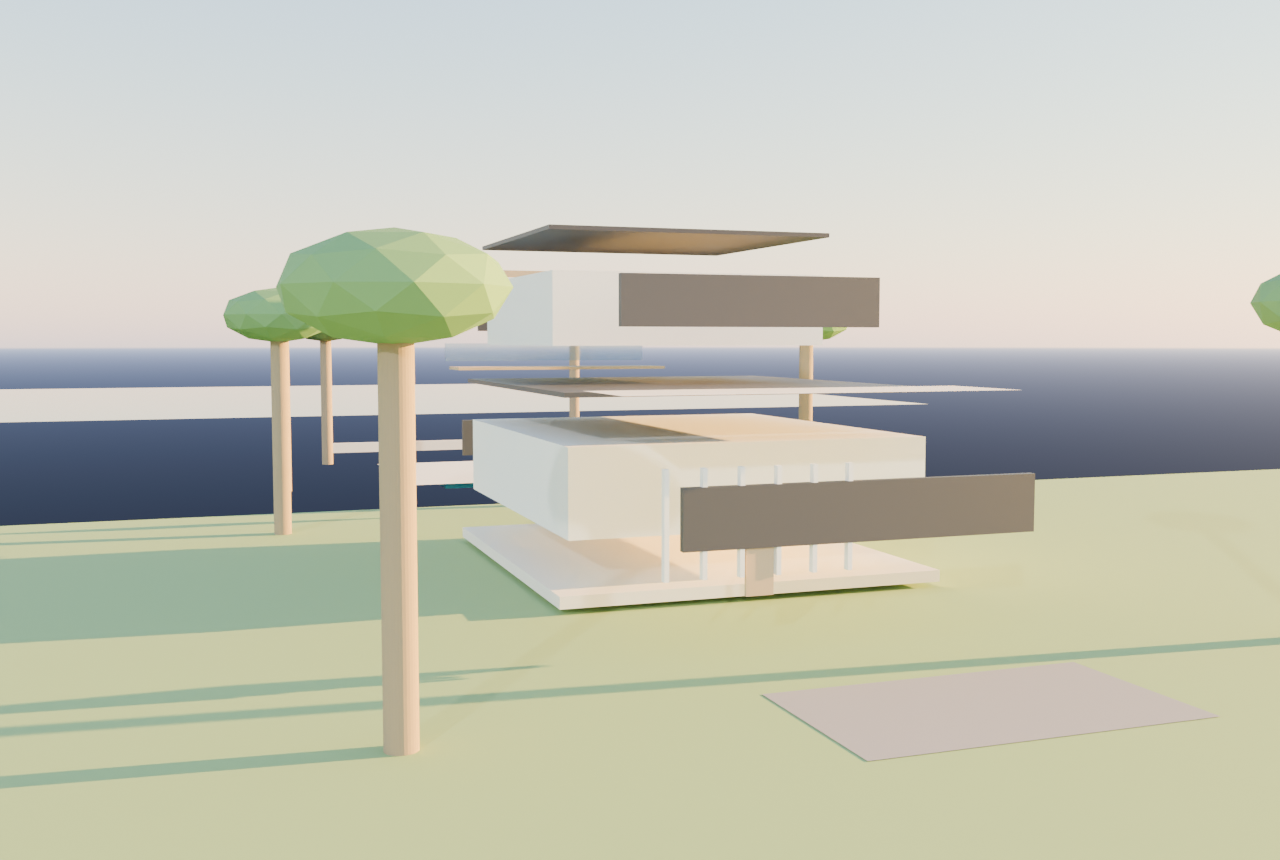
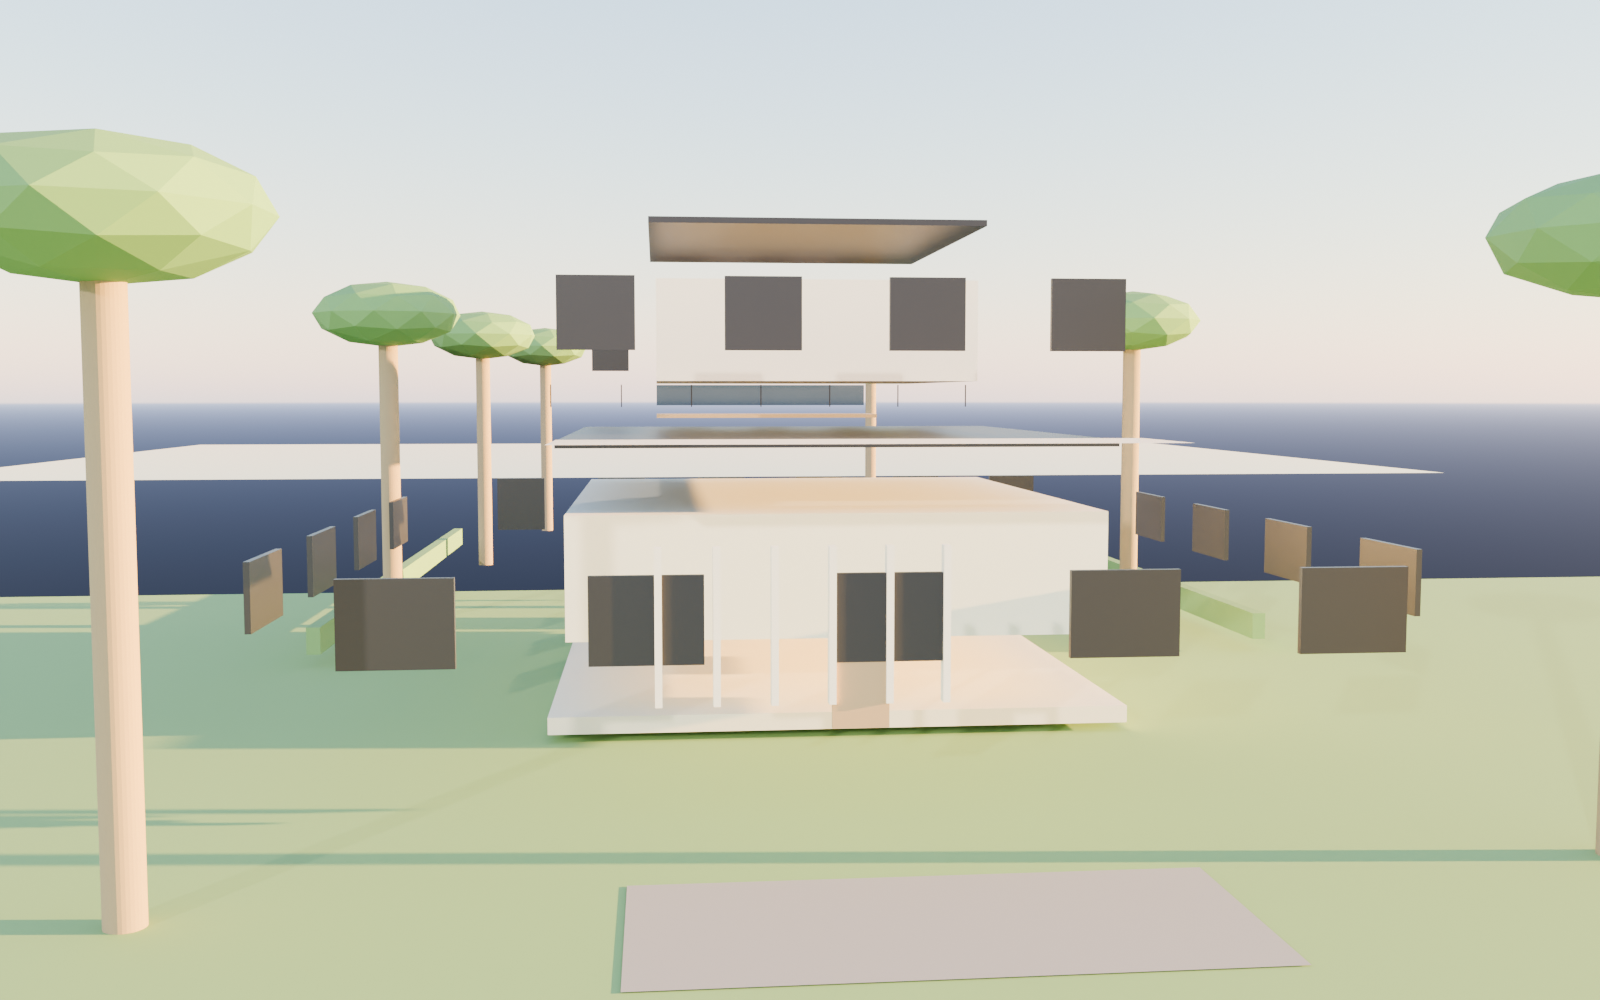
Refine 3D: recessed windows, glass-rail terrace, PBR materials, landscaping
Realism pass on the Blender model - black-framed recessed windows on
all facades, entry colonnade, glass-railed bay terrace, wood accents,
stucco/glass/water/travertine materials, hedges + palms, golden-hour
physical sky, 110-sample render at 1600x1000.

Changed region(s): [[0.0, 0.1209, 1.0, 0.9977], [0.9062, 0.1814, 1.0, 0.393], [0.9062, 0.7256, 1.0, 0.7558]]

diff --git a/tools/blender_second_floor.py b/tools/blender_second_floor.py
@@ -1,189 +1,165 @@
 #!/usr/bin/env python3
 """
-Blender (bpy) model of 8220 Hawthorne Ave with a second floor built ON the
-existing flat roof. Conceptual massing with real materials + physical sky.
-
-Run:  python3 tools/blender_second_floor.py
-Outputs photoreal-ish renders into renders/blender/.
-
-Geometry from the survey + listing photos:
-  - Lot 60' (x) x 150' (y). Front (y=0)=Hawthorne Ave, rear (y=150)=open bay/west.
-  - Existing: low white one-story, FLAT ROOF, ~41'x64' footprint, pool+deck on bay.
-  - Proposed: stepped-back 2nd-floor volume on the flat roof + bay-facing terrace.
-NOT to scale for permit; massing/visualization only.
+8220 Hawthorne Ave - second floor on the flat roof.
+Refined Blender (bpy) model: recessed black-framed windows, glass-rail bay
+terrace, PBR materials (stucco/glass/wood/travertine/water), landscaping, and
+golden-hour physical-sky lighting. Conceptual visualization, real-scale.
+Run: python3 tools/blender_second_floor.py
 """
 import bpy, math, os
 
-# ---------------- scene reset ----------------
 bpy.ops.wm.read_factory_settings(use_empty=True)
 scene = bpy.context.scene
 
-# ---------------- params (feet) ----------------
+# ---- dims (feet), real scale from LiDAR ----
 LOT_W, LOT_D = 60.0, 150.0
-PLINTH = 1.5                       # modest finished-floor lift above grade
-S1H, S2H = 11.0, 10.0
-# footprint scaled to the LiDAR scan: ~48' wide x ~54' deep, on the 60' lot
-HX0, HX1 = 6.0, 54.0               # house footprint x (width ~48')
-HY0, HY1 = 20.0, 74.0             # house footprint y (front->bay, depth ~54')
-ROOF = 0.6
-# second floor: stepped back from street, sits on the flat roof
-S2X0, S2X1 = 10.0, 50.0
-S2Y0, S2Y1 = 34.0, HY1            # opened toward the bay (rear)
+PLINTH, S1H, S2H, ROOF = 1.5, 11.0, 10.0, 0.6
+HX0, HX1, HY0, HY1 = 6.0, 54.0, 20.0, 74.0       # wide low base ~48x54
+S2X0, S2X1, S2Y0, S2Y1 = 14.0, 46.0, 32.0, 74.0  # central upper, stepped back
+ROOF_Z = PLINTH + S1H + ROOF
 
-def mat(name, color, rough=0.7, metal=0.0, transmission=0.0, emit=0.0):
+def mat(name, color, rough=0.7, metal=0.0, trans=0.0, bump=0.0):
     m = bpy.data.materials.new(name); m.use_nodes = True
-    b = m.node_tree.nodes.get("Principled BSDF")
+    nt = m.node_tree; b = nt.nodes.get("Principled BSDF")
     b.inputs["Base Color"].default_value = (*color, 1)
     b.inputs["Roughness"].default_value = rough
     b.inputs["Metallic"].default_value = metal
-    if "Transmission Weight" in b.inputs:
-        b.inputs["Transmission Weight"].default_value = transmission
-    if emit and "Emission Strength" in b.inputs:
-        b.inputs["Emission Color"].default_value = (*color, 1)
-        b.inputs["Emission Strength"].default_value = emit
+    if "Transmission Weight" in b.inputs: b.inputs["Transmission Weight"].default_value = trans
+    if bump:
+        n = nt.nodes.new("ShaderNodeTexNoise"); n.inputs["Scale"].default_value = 60
+        bp = nt.nodes.new("ShaderNodeBump"); bp.inputs["Strength"].default_value = bump
+        nt.links.new(n.outputs["Fac"], bp.inputs["Height"])
+        nt.links.new(bp.outputs["Normal"], b.inputs["Normal"])
     return m
 
-STUCCO = mat("stucco", (0.93, 0.92, 0.89), rough=0.85)
-TRIM   = mat("trim",   (0.06, 0.06, 0.07), rough=0.5)
-GLASS  = mat("glass",  (0.05, 0.09, 0.12), rough=0.05, transmission=0.85)
-WOOD   = mat("wood",   (0.55, 0.40, 0.24), rough=0.6)
-TRAV   = mat("trav",   (0.85, 0.80, 0.72), rough=0.7)
-WATER  = mat("water",  (0.02, 0.22, 0.30), rough=0.04, metal=0.0)
-POOL   = mat("pool",   (0.05, 0.45, 0.62), rough=0.03)
-GRASS  = mat("grass",  (0.30, 0.45, 0.18), rough=0.95)
-ROADM  = mat("road",   (0.30, 0.30, 0.32), rough=0.9)
-RAILG  = mat("railglass", (0.6, 0.75, 0.85), rough=0.05, transmission=0.9)
+STUCCO=mat("stucco",(0.92,0.91,0.88),0.8,bump=0.05)
+TRIM  =mat("trim",(0.05,0.05,0.06),0.4,metal=0.7)
+GLASS =mat("glass",(0.06,0.11,0.14),0.05,trans=0.9)
+WOOD  =mat("wood",(0.5,0.34,0.19),0.45)
+TRAV  =mat("trav",(0.84,0.79,0.71),0.6,bump=0.03)
+WATER =mat("water",(0.02,0.20,0.28),0.02)
+POOL  =mat("pool",(0.05,0.42,0.58),0.02)
+GRASS =mat("grass",(0.22,0.40,0.14),0.95,bump=0.04)
+HEDGE =mat("hedge",(0.16,0.33,0.12),0.9,bump=0.1)
+ROAD  =mat("road",(0.30,0.30,0.32),0.85)
+LEAF  =mat("leaf",(0.15,0.34,0.11),0.8)
+TRUNK =mat("trunk",(0.34,0.26,0.16),0.9)
 
-def box(x0, x1, y0, y1, z0, z1, m, name="box"):
+def box(x0,x1,y0,y1,z0,z1,m,name="b"):
     bpy.ops.mesh.primitive_cube_add(size=1)
-    o = bpy.context.active_object; o.name = name
-    o.scale = ((x1-x0)/2, (y1-y0)/2, (z1-z0)/2)
-    o.location = ((x0+x1)/2, (y0+y1)/2, (z0+z1)/2)
-    o.data.materials.append(m)
-    return o
+    o=bpy.context.active_object; o.name=name
+    o.scale=((x1-x0)/2,(y1-y0)/2,(z1-z0)/2); o.location=((x0+x1)/2,(y0+y1)/2,(z0+z1)/2)
+    o.data.materials.append(m); return o
 
-def plane(x0, x1, y0, y1, z, m, name="plane"):
+def plane(x0,x1,y0,y1,z,m,name="p"):
     bpy.ops.mesh.primitive_plane_add(size=1)
-    o = bpy.context.active_object; o.name = name
-    o.scale = ((x1-x0)/2, (y1-y0)/2, 1)
-    o.location = ((x0+x1)/2, (y0+y1)/2, z)
-    o.data.materials.append(m)
-    return o
+    o=bpy.context.active_object; o.name=name
+    o.scale=((x1-x0)/2,(y1-y0)/2,1); o.location=((x0+x1)/2,(y0+y1)/2,z)
+    o.data.materials.append(m); return o
 
-# ---------------- ground / context ----------------
-plane(-200, 260, -120, 150, 0.0, GRASS, "grass")
-plane(-20, LOT_W+20, -60, 0, 0.02, ROADM, "street")
-plane(-260, 320, 150, 520, -0.6, WATER, "bay")
-box(0, LOT_W, 149, 150.6, -1.2, 1.6, TRAV, "seawall")
+def win_band(axis, pos, a0, a1, z0, z1, n=5, frame=0.35):
+    """row of n recessed glass panels along an axis with black frames.
+    axis 'y': wall runs along x at y=pos; axis 'x': wall runs along y at x=pos."""
+    seg=(a1-a0)/n
+    for i in range(n):
+        c0=a0+i*seg+0.6; c1=a0+(i+1)*seg-0.6
+        if axis=='y':
+            box(c0-frame,c1+frame,pos-0.25,pos+0.25,z0-frame,z1+frame,TRIM,"wf")
+            box(c0,c1,pos-0.18,pos+0.18,z0,z1,GLASS,"wg")
+        else:
+            box(pos-0.25,pos+0.25,c0-frame,c1+frame,z0-frame,z1+frame,TRIM,"wf")
+            box(pos-0.18,pos+0.18,c0,c1,z0,z1,GLASS,"wg")
 
-# pool + deck on the bay side
-plane(8, 52, 88, 138, 0.05, TRAV, "pooldeck")
-box(18, 40, 96, 122, -1.0, 0.18, POOL, "pool")
+def railing(x0,x1,y,z):
+    box(x0,x1,y-0.1,y+0.1,z+3.3,z+3.5,WOOD,"rail_top")
+    box(x0,x1,y-0.06,y+0.06,z+0.2,z+3.3,GLASS,"rail_glass")
+    for gx in [x0+(x1-x0)*t/6 for t in range(7)]:
+        box(gx-0.08,gx+0.08,y-0.1,y+0.1,z,z+3.4,TRIM,"post")
 
-# ---------------- existing one-story (white, flat roof) ----------------
-box(HX0-1.5, HX1+1.5, HY0-1.5, HY1+1.5, 0.0, PLINTH, TRAV, "plinth")
-box(HX0, HX1, HY0, HY1, PLINTH, PLINTH+S1H, STUCCO, "story1")
-# thin dark fascia + flat roof slab
-box(HX0-0.6, HX1+0.6, HY0-0.6, HY1+0.6, PLINTH+S1H, PLINTH+S1H+ROOF, TRIM, "fascia1")
-ROOF_Z = PLINTH + S1H + ROOF      # top of existing flat roof — 2nd floor sits here
-
-# window bands (front + bay) on first story, with dark recessed frames
-def windows(x0, x1, y, z0, z1, depth=0.3):
-    box(x0-0.3, x1+0.3, y-depth-0.15, y+depth+0.15, z0-0.4, z1+0.4, TRIM, "winframe")
-    box(x0, x1, y-depth, y+depth, z0, z1, GLASS, "win")
-windows(HX0+4, HX1-4, HY0, PLINTH+3.0, PLINTH+8.5)          # front glazing
-windows(HX0+4, HX1-4, HY1, PLINTH+3.0, PLINTH+8.5)          # bay glazing
-
-# front driveway pavers + entry colonnade (matches the photo's column screen)
-plane(13, 47, 0, 19, 0.03, ROADM, "driveway")
-for cx in range(19, 30, 2):
-    box(cx-0.25, cx+0.25, HY0-0.4, HY0+0.4, PLINTH, PLINTH+S1H, STUCCO, "col")
-box(22.5, 25.5, HY0-0.2, HY0+0.2, PLINTH, PLINTH+7, WOOD, "frontdoor")
-
-# ---------------- proposed SECOND FLOOR on the flat roof ----------------
-box(S2X0, S2X1, S2Y0, S2Y1, ROOF_Z, ROOF_Z+S2H, STUCCO, "story2")
-box(S2X0-0.6, S2X1+0.6, S2Y0-0.6, S2Y1+0.6, ROOF_Z+S2H, ROOF_Z+S2H+ROOF, TRIM, "fascia2")
-# black window reveals on the second floor (street + bay)
-windows(S2X0+3, S2X1-3, S2Y0, ROOF_Z+2.5, ROOF_Z+8.0)      # street-facing
-windows(S2X0+3, S2X1-3, S2Y1, ROOF_Z+2.5, ROOF_Z+8.0)      # bay-facing (the view)
-# wood-accent band wrapping the bay face of the 2nd floor
-box(S2X0, S2X1, S2Y1-0.25, S2Y1+0.25, ROOF_Z+8.2, ROOF_Z+9.4, WOOD, "woodband")
-
-# rooftop terrace over the stepped-back (street) portion
-plane(HX0, HX1, HY0, S2Y0, ROOF_Z+0.05, TRAV, "frontterrace")
-# PRIMARY-SUITE TERRACE cantilevered toward the bay
-box(S2X0, S2X1, HY1, HY1+9, ROOF_Z, ROOF_Z+0.5, WOOD, "bayterrace")
-box(S2X0, S2X1, HY1+8.6, HY1+9.0, ROOF_Z, ROOF_Z+3.4, RAILG, "bayrail")
-
-# ---------------- sky + sun (golden hour over the bay/west) ----------------
-world = bpy.data.worlds.new("W"); scene.world = world; world.use_nodes = True
-wn = world.node_tree.nodes; wl = world.node_tree.links
-sky = wn.new("ShaderNodeTexSky"); sky.sky_type = 'MULTIPLE_SCATTERING'
-for attr, val in (("sun_elevation", math.radians(12)),
-                  ("sun_rotation", math.radians(95)),
-                  ("air_density", 2.0), ("dust_density", 2.5)):
-    try: setattr(sky, attr, val)
-    except Exception: pass
-bg = wn.get("Background"); bg.inputs["Strength"].default_value = 1.0
-wl.new(sky.outputs[0], bg.inputs[0])
-
-bg.inputs["Strength"].default_value = 0.6
-sun = bpy.data.lights.new("sun", 'SUN'); sun.energy = 3.0
-sun.angle = math.radians(1.5)
-sunobj = bpy.data.objects.new("sun", sun); scene.collection.objects.link(sunobj)
-sunobj.rotation_euler = (math.radians(68), 0, math.radians(-35))
-
-# ---- a few palms for scale/context ----
-TRUNK = mat("trunk", (0.34, 0.26, 0.16), rough=0.9)
-LEAF  = mat("leaf",  (0.16, 0.34, 0.12), rough=0.8)
-def palm(x, y, h=18):
-    bpy.ops.mesh.primitive_cylinder_add(radius=0.7, depth=h, location=(x, y, h/2))
+def palm(x,y,h=20):
+    bpy.ops.mesh.primitive_cylinder_add(radius=0.6,depth=h,location=(x,y,h/2))
     bpy.context.active_object.data.materials.append(TRUNK)
-    bpy.ops.mesh.primitive_ico_sphere_add(radius=4.5, location=(x, y, h))
-    c = bpy.context.active_object; c.scale = (1, 1, 0.5); c.data.materials.append(LEAF)
-for (px, py) in [(5,12),(55,14),(4,70),(56,78),(13,128),(47,131),(6,100)]:
-    palm(px, py)
+    bpy.ops.mesh.primitive_ico_sphere_add(radius=4.6,location=(x,y,h))
+    c=bpy.context.active_object; c.scale=(1,1,0.45); c.data.materials.append(LEAF)
 
-# ---------------- render settings ----------------
-scene.render.engine = 'CYCLES'
-scene.cycles.device = 'CPU'
-scene.cycles.samples = 48
-try: bpy.context.view_layer.cycles.use_denoising = True
-except Exception: pass
-scene.render.resolution_x = 1280
-scene.render.resolution_y = 860
-scene.render.film_transparent = False
-try: scene.view_settings.view_transform = 'AgX'
-except Exception: scene.view_settings.view_transform = 'Filmic'
-scene.view_settings.exposure = -0.7
-scene.view_settings.look = 'AgX - Medium High Contrast' if False else 'None'
+# ---------- ground / context ----------
+plane(-200,260,-120,150,0.0,GRASS,"grass")
+plane(0,LOT_W,-60,0,0.02,ROAD,"street")
+plane(-260,320,150,520,-0.5,WATER,"bay")
+box(0,LOT_W,148.5,150.5,-1.2,1.4,TRAV,"seawall")
+plane(12,48,86,140,0.05,TRAV,"pooldeck")
+box(18,40,96,124,-1.0,0.15,POOL,"pool")
+# hedges along side lot lines + front
+for hy in [(22,140)]:
+    box(2.5,4.0,hy[0],hy[1],0,3.0,HEDGE,"hedge_W")
+    box(56,57.5,hy[0],hy[1],0,3.0,HEDGE,"hedge_E")
+plane(12,48,2,18,0.04,ROAD,"driveway")
 
-def add_cam(name, loc, look):
-    cam = bpy.data.cameras.new(name); cam.lens = 35
-    o = bpy.data.objects.new(name, cam); scene.collection.objects.link(o)
-    o.location = loc
-    d = (look[0]-loc[0], look[1]-loc[1], look[2]-loc[2])
-    o.rotation_euler = (math.atan2(math.hypot(d[0], d[1]), d[2]),  # not exact; refined below
-                        0, math.atan2(d[1], d[0]) - math.pi/2)
-    # use track-to via constraint for reliable aim
-    tgt = bpy.data.objects.new(name+"_t", None); scene.collection.objects.link(tgt)
-    tgt.location = look
-    c = o.constraints.new('TRACK_TO'); c.target = tgt
-    c.track_axis = 'TRACK_NEGATIVE_Z'; c.up_axis = 'UP_Y'
+# ---------- first story ----------
+box(HX0-1.5,HX1+1.5,HY0-1.5,HY1+1.5,0,PLINTH,TRAV,"plinth")
+box(HX0,HX1,HY0,HY1,PLINTH,PLINTH+S1H,STUCCO,"story1")
+box(HX0-0.7,HX1+0.7,HY0-0.7,HY1+0.7,PLINTH+S1H,ROOF_Z,TRIM,"fascia1")
+win_band('y',HY0,HX0+3,HX1-3,PLINTH+3,PLINTH+8.5,n=5)          # front
+win_band('y',HY1,HX0+3,HX1-3,PLINTH+2.5,PLINTH+9,n=6)          # bay (big)
+win_band('x',HX0,HY0+6,HY1-6,PLINTH+3,PLINTH+8,n=4)            # west side
+win_band('x',HX1,HY0+6,HY1-6,PLINTH+3,PLINTH+8,n=4)            # east side
+# entry colonnade
+for cx in range(22,34,2):
+    box(cx-0.25,cx+0.25,HY0-0.5,HY0+0.5,PLINTH,PLINTH+S1H,STUCCO,"col")
+box(27,31,HY0-0.2,HY0+0.2,PLINTH,PLINTH+7.5,WOOD,"door")
+
+# ---------- second story on the flat roof ----------
+box(S2X0,S2X1,S2Y0,S2Y1,ROOF_Z,ROOF_Z+S2H,STUCCO,"story2")
+box(S2X0-0.7,S2X1+0.7,S2Y0-0.7,S2Y1+0.7,ROOF_Z+S2H,ROOF_Z+S2H+ROOF,TRIM,"fascia2")
+win_band('y',S2Y0,S2X0+2,S2X1-2,ROOF_Z+2.5,ROOF_Z+8,n=4)       # street side
+win_band('y',S2Y1,S2X0+2,S2X1-2,ROOF_Z+2,ROOF_Z+8.5,n=5)       # bay side (view)
+box(S2X0,S2X1,S2Y1-0.2,S2Y1+0.2,ROOF_Z+8.4,ROOF_Z+9.4,WOOD,"woodband")
+# front rooftop terrace over the step + bay terrace cantilever
+plane(HX0,HX1,HY0,S2Y0,ROOF_Z+0.05,TRAV,"frontterrace")
+box(S2X0,S2X1,HY1,HY1+9,ROOF_Z,ROOF_Z+0.5,WOOD,"bayterrace")
+railing(S2X0,S2X1,HY1+9,ROOF_Z)
+
+for (px,py) in [(7,12),(53,14),(5,66),(55,70),(10,132),(46,134),(7,100)]:
+    palm(px,py)
+
+# ---------- sky + sun (golden hour over the bay/west) ----------
+world=bpy.data.worlds.new("W"); scene.world=world; world.use_nodes=True
+wn=world.node_tree.nodes; wl=world.node_tree.links
+sky=wn.new("ShaderNodeTexSky"); sky.sky_type='MULTIPLE_SCATTERING'
+for a,v in (("sun_elevation",math.radians(9)),("sun_rotation",math.radians(95)),
+            ("air_density",1.6),("dust_density",3.0)):
+    try: setattr(sky,a,v)
+    except: pass
+wn.get("Background").inputs["Strength"].default_value=0.8
+wl.new(sky.outputs[0],wn.get("Background").inputs[0])
+sun=bpy.data.lights.new("sun",'SUN'); sun.energy=4.2; sun.angle=math.radians(1.2)
+sun.color=(1.0,0.86,0.66)
+so=bpy.data.objects.new("sun",sun); scene.collection.objects.link(so)
+so.rotation_euler=(math.radians(72),0,math.radians(-30))
+
+# ---------- render ----------
+scene.render.engine='CYCLES'; scene.cycles.device='CPU'; scene.cycles.samples=110
+try: bpy.context.view_layer.cycles.use_denoising=True
+except: pass
+scene.render.resolution_x=1600; scene.render.resolution_y=1000
+try: scene.view_settings.view_transform='AgX'
+except: pass
+scene.view_settings.exposure=-0.5
+
+def cam(name,loc,look):
+    cd=bpy.data.cameras.new(name); cd.lens=33
+    o=bpy.data.objects.new(name,cd); scene.collection.objects.link(o); o.location=loc
+    t=bpy.data.objects.new(name+"t",None); scene.collection.objects.link(t); t.location=look
+    c=o.constraints.new('TRACK_TO'); c.target=t; c.track_axis='TRACK_NEGATIVE_Z'; c.up_axis='UP_Y'
     return o
 
-OUT = os.path.join(os.path.dirname(__file__), "..", "renders", "blender")
-os.makedirs(OUT, exist_ok=True)
-
-cams = {
-    "01_bay_hero":  ((78, 138, 26), (30, 60, 12)),    # from the water, 3/4, golden hour
-    "02_street":    ((-2, -36, 16), (30, 55, 9)),     # from Hawthorne Ave, 3/4
-    "03_aerial":    ((-30, -22, 78), (30, 72, 6)),    # high aerial overview
-}
-for name, (loc, look) in cams.items():
-    cam = add_cam(name, loc, look)
-    scene.camera = cam
-    scene.render.filepath = os.path.join(OUT, name + ".png")
-    bpy.ops.render.render(write_still=True)
-    print("rendered", name)
+OUT=os.path.join(os.path.dirname(__file__),"..","renders","blender"); os.makedirs(OUT,exist_ok=True)
+for name,(loc,look) in {
+    "01_bay_hero":((86,132,24),(30,55,12)),
+    "02_street":((22,-30,15),(30,52,9)),
+    "03_aerial":((-26,-18,70),(30,66,5)),
+}.items():
+    scene.camera=cam(name,loc,look)
+    scene.render.filepath=os.path.join(OUT,name+".png")
+    bpy.ops.render.render(write_still=True); print("rendered",name)
 print("DONE")
